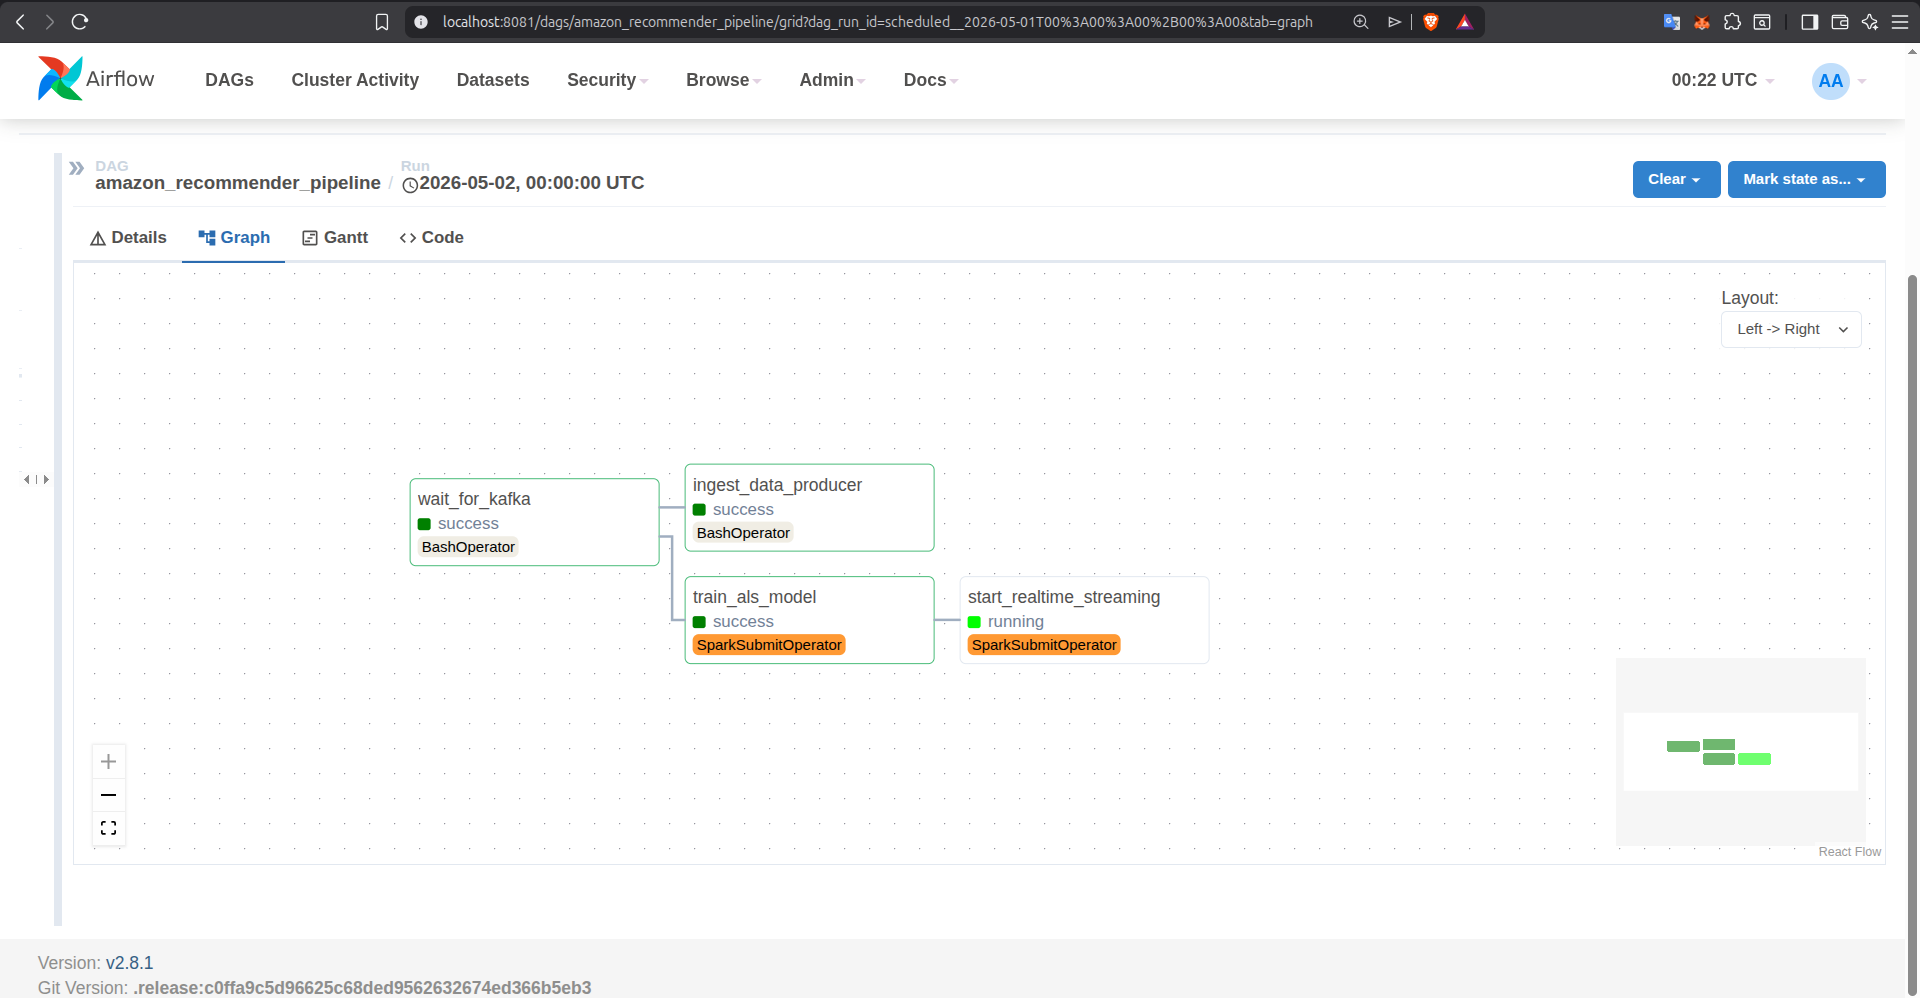
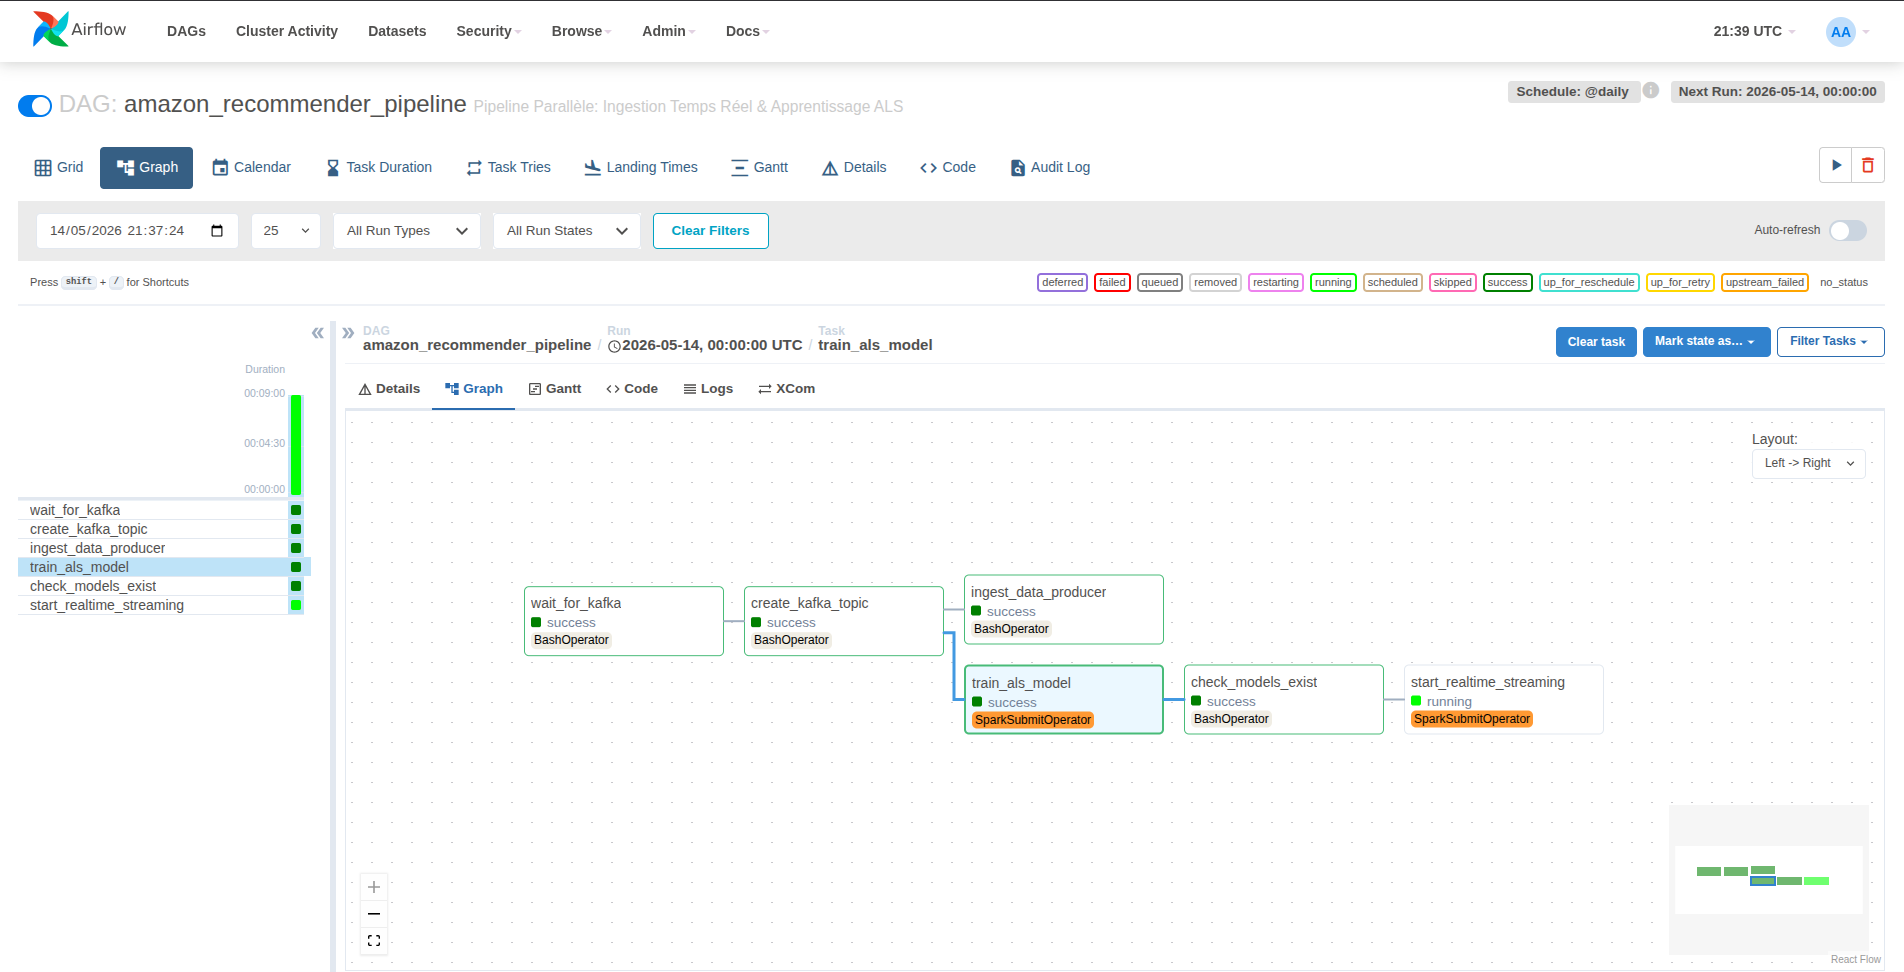
feat: add Kafka topic creation and update recommender DAG for improved data flow

diff --git a/src/spark/streaming_recommender.py b/src/spark/streaming_recommender.py
@@ -21,12 +21,39 @@ KAFKA_BROKER = os.getenv("KAFKA_BROKER", "kafka:29092")
 KAFKA_TOPIC = os.getenv("KAFKA_TOPIC", "user-ratings")
 
 SPARK_MASTER = os.getenv("SPARK_MASTER", "spark://spark-master:7077")
-MODEL_DIR = os.getenv("SPARK_MODEL_DIR", "/opt/spark/models/als_model")
-USER_INDEXER_PATH = os.getenv("SPARK_USER_INDEXER_PATH", "/opt/spark/models/user_indexer")
-ITEM_INDEXER_PATH = os.getenv("SPARK_ITEM_INDEXER_PATH", "/opt/spark/models/item_indexer")
-CHECKPOINT_DIR = os.getenv("SPARK_CHECKPOINT_DIR", "/opt/spark/models/checkpoints/streaming")
+
+MODEL_DIR = "file:///opt/spark/models/als_model"
+USER_INDEXER_PATH = "file:///opt/spark/models/user_indexer"
+ITEM_INDEXER_PATH = "file:///opt/spark/models/item_indexer"
+CHECKPOINT_DIR = "file:///opt/spark/models/checkpoints/streaming"
 
 TOP_N = int(os.getenv("RECOMMEND_TOP_N", "5"))
+
+def init_db():
+    """
+    CORRECTION 2 : Initialise la table dès le lancement.
+    Ainsi, l'API ne plantera jamais, même si Kafka est vide !
+    """
+    conn = None
+    try:
+        conn = psycopg2.connect(
+            host=DB_HOST, port=DB_PORT, dbname=DB_NAME, user=DB_USER, password=DB_PASS
+        )
+        cur = conn.cursor()
+        cur.execute("""
+            CREATE TABLE IF NOT EXISTS user_recommendations (
+                "UserId" VARCHAR(255) PRIMARY KEY,
+                recommendations TEXT
+            )
+        """)
+        conn.commit()
+        cur.close()
+        logger.info("Table PostgreSQL 'user_recommendations' vérifiée/créée avec succès.")
+    except Exception as e:
+        logger.error(f"Erreur lors de la création de la table : {e}")
+    finally:
+        if conn:
+            conn.close()
 
 def save_to_postgres(batch_df, batch_id, item_labels):
     if batch_df.rdd.isEmpty():
@@ -37,20 +64,9 @@ def save_to_postgres(batch_df, batch_id, item_labels):
 
     try:
         conn = psycopg2.connect(
-            host=DB_HOST,
-            port=DB_PORT,
-            dbname=DB_NAME,
-            user=DB_USER,
-            password=DB_PASS
+            host=DB_HOST, port=DB_PORT, dbname=DB_NAME, user=DB_USER, password=DB_PASS
         )
         cur = conn.cursor()
-
-        cur.execute("""
-            CREATE TABLE IF NOT EXISTS user_recommendations (
-                "UserId" VARCHAR(255) PRIMARY KEY,
-                recommendations TEXT
-            )
-        """)
 
         for row in records:
             user_id = str(row["UserId"])
@@ -72,15 +88,18 @@ def save_to_postgres(batch_df, batch_id, item_labels):
             """, (user_id, recs_json))
 
         conn.commit()
-        logger.info("Batch %s : %s recommandations mises a jour en base.", batch_id, len(records))
+        logger.info(f"Batch {batch_id} : {len(records)} recommandations mises à jour en base.")
         cur.close()
     except Exception as e:
-        logger.error("Erreur d'insertion PostgreSQL : %s", e)
+        logger.error(f"Erreur d'insertion PostgreSQL : {e}")
     finally:
         if conn:
             conn.close()
 
 def main():
+    # On crée la table avant même de lancer Spark
+    init_db()
+
     spark = SparkSession.builder \
         .appName("RealTimeRecommender") \
         .master(SPARK_MASTER) \
@@ -94,9 +113,10 @@ def main():
         user_indexer = StringIndexerModel.load(USER_INDEXER_PATH)
         item_indexer = StringIndexerModel.load(ITEM_INDEXER_PATH)
         item_labels = item_indexer.labels
+        logger.info("Modèles chargés avec succès !")
     except Exception as e:
-        logger.error("Modeles introuvables. Entrainement batch a verifier. Erreur: %s", e)
-        return
+        logger.error(f"Modeles introuvables. Entrainement batch a verifier. Erreur: {e}")
+        import sys; sys.exit(1)
 
     max_user_index = None
     try:
@@ -115,7 +135,7 @@ def main():
         .format("kafka") \
         .option("kafka.bootstrap.servers", KAFKA_BROKER) \
         .option("subscribe", KAFKA_TOPIC) \
-        .option("startingOffsets", "latest") \
+        .option("startingOffsets", "earliest") \
         .load()
 
     parsed_df = kafka_df.selectExpr("CAST(value AS STRING) AS value") \

diff --git a/dags/recommender_dag.py b/dags/recommender_dag.py
@@ -30,6 +30,18 @@ with DAG(
         retry_delay=timedelta(seconds=15)
     )
 
+    create_kafka_topic = BashOperator(
+        task_id='create_kafka_topic',
+        bash_command='''python -c "
+from kafka.admin import KafkaAdminClient, NewTopic
+try:
+    admin = KafkaAdminClient(bootstrap_servers='kafka:29092')
+    admin.create_topics([NewTopic(name='user-ratings', num_partitions=1, replication_factor=1)])
+except Exception as e:
+    print('Topic may already exist or error:', e)
+"'''
+    )
+
     # ---------------------------------------------------------
     # BRANCHE 1 : LE FLUX DE DONNÉES (SIMULATION TEMPS RÉEL)
     # ---------------------------------------------------------
@@ -76,8 +88,22 @@ with DAG(
     # L'ORCHESTRATION PARALLÈLE (LE SECRET D'UN BON DAG)
     # =========================================================
     
-    # Le producer démarre dès que Kafka est prêt (Branche 1)
-    wait_for_kafka >> ingest_data
-    
-    # L'entraînement démarre en parallèle. Le streaming attend que le modèle soit prêt (Branche 2)
-    wait_for_kafka >> train_model >> start_streaming
+    check_models = BashOperator(
+        task_id='check_models_exist',
+        bash_command="""
+            for path in /opt/spark/models/als_model/metadata \
+                        /opt/spark/models/user_indexer/metadata \
+                        /opt/spark/models/item_indexer/metadata; do
+                if [ ! -d "$path" ]; then
+                    echo "ERREUR: Modèle manquant: $path"
+                    exit 1
+                fi
+            done
+            echo "Tous les modèles sont présents."
+        """,
+    )
+
+    # Nouveau pipeline
+    wait_for_kafka >> create_kafka_topic
+    create_kafka_topic >> ingest_data
+    create_kafka_topic >> train_model >> check_models >> start_streaming

diff --git a/src/spark/train_model.py b/src/spark/train_model.py
@@ -2,6 +2,7 @@ import os
 import shutil
 import logging
 from pyspark.sql import SparkSession
+from pyspark.sql.functions import col
 import pyspark.sql.functions as F
 from pyspark.ml.feature import StringIndexer
 from pyspark.ml.recommendation import ALS
@@ -16,10 +17,10 @@ logging.basicConfig(
 logger = logging.getLogger(__name__)
 
 # Chemins exacts
-DATA_PATH = "/opt/spark/data/Reviews.csv"
-MODEL_DIR = "/opt/spark/models/als_model"
-USER_INDEXER_PATH = "/opt/spark/models/user_indexer"
-ITEM_INDEXER_PATH = "/opt/spark/models/item_indexer"
+DATA_PATH = "file:///opt/spark/data/Reviews.csv"
+MODEL_DIR = "file:///opt/spark/models/als_model"
+USER_INDEXER_PATH = "file:///opt/spark/models/user_indexer"
+ITEM_INDEXER_PATH = "file:///opt/spark/models/item_indexer"
 
 def main():
     logger.info("Initialisation de la SparkSession connectée au cluster...")
@@ -40,6 +41,12 @@ def main():
         print(f"DEBUG: Tentative de lecture du fichier au chemin exact -> {DATA_PATH}")
         df = spark.read.csv(DATA_PATH, header=True, inferSchema=True)
         
+        df = df.withColumn("Time", col("Time").cast("long"))
+
+        # Split logique deterministe pour eviter le data leakage (batch 60%).
+        df = df.filter(col("Time") % 10 < 6)
+        logger.info("Split logique 60%% applique (Time %% 10 < 6)")
+
         df = df.select(
             df['UserId'].cast('string'),
             df['ProductId'].cast('string'),

diff --git a/src/producer/kafka_producer.py b/src/producer/kafka_producer.py
@@ -69,14 +69,16 @@ def process_and_send_data(producer):
 
             for index, row in chunk.iterrows():
                 try:
-                    message = {
-                        'UserId': str(row['UserId']),
-                        'ProductId': str(row['ProductId']),
-                        'Score': float(row['Score']),
-                        'Time': int(row['Time'])
-                    }
+                    # Split logique deterministe pour eviter le data leakage (streaming 40%).
+                    if int(row['Time']) % 10 >= 6:
+                        message = {
+                            'UserId': str(row['UserId']),
+                            'ProductId': str(row['ProductId']),
+                            'Score': float(row['Score']),
+                            'Time': int(row['Time'])
+                        }
 
-                    producer.send(TOPIC_NAME, value=message)
+                        producer.send(TOPIC_NAME, value=message)
                     
                     #time.sleep(random.uniform(0.001, 0.01))
 

diff --git a/src/dashboard/api.py b/src/dashboard/api.py
@@ -9,7 +9,7 @@ from fastapi.responses import FileResponse
 
 # Database connection parameters via environment variables
 DB_PARAMS = {
-    "host": os.getenv("API_DB_HOST", "localhost"),
+    "host": os.getenv("API_DB_HOST", "postgres"),
     "port": int(os.getenv("API_DB_PORT", 5432)),
     "dbname": os.getenv("POSTGRES_DB", "airflow"),
     "user": os.getenv("POSTGRES_USER", "airflow"),

diff --git a/create_topic_script.py b/create_topic_script.py
@@ -1,0 +1,9 @@
+from kafka.admin import KafkaAdminClient, NewTopic
+
+admin = KafkaAdminClient(bootstrap_servers='kafka:29092')
+topic = NewTopic(name='user-ratings', num_partitions=1, replication_factor=1)
+try:
+    admin.create_topics([topic])
+    print("Topic created")
+except Exception as e:
+    print("Error or topic exists:", e)
